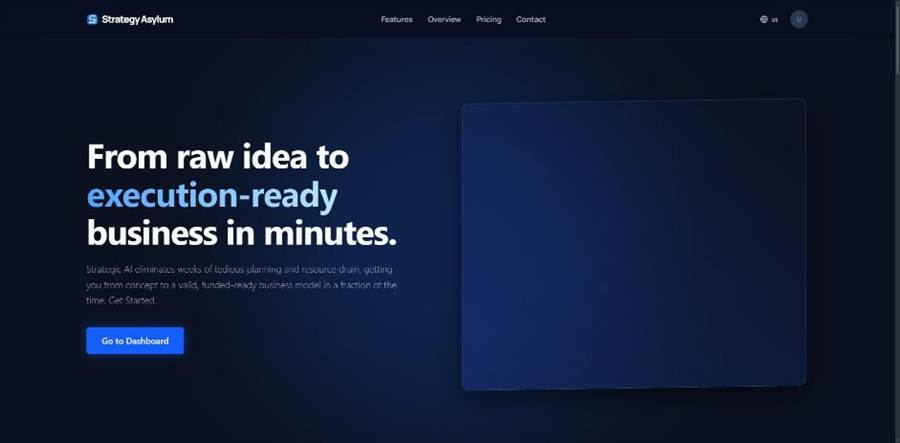
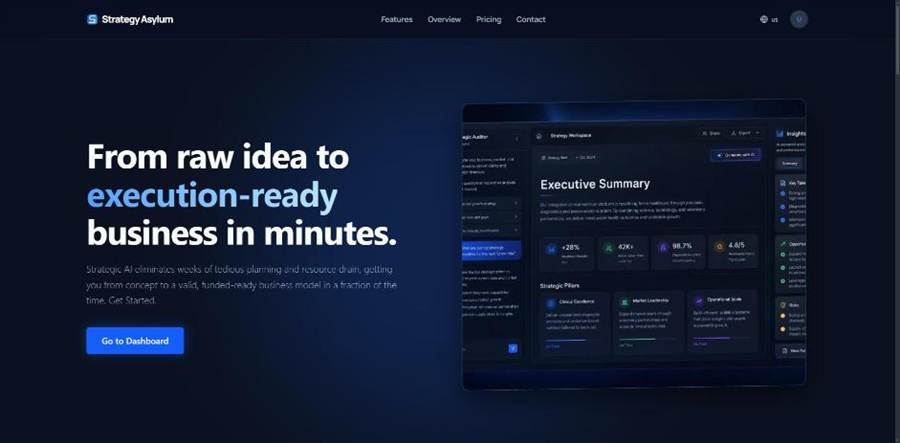
Retake Strategy Asylum screenshot with the interface preview loaded

Changed region(s): [[0.4978, 0.2348, 0.9022, 0.8804], [0.7467, 0.2641, 0.7778, 0.2935]]

diff --git a/index.html b/index.html
@@ -92,7 +92,7 @@
     <div class="project">
       <h3>Strategy Asylum</h3>
       <p>A Next.js and PostgreSQL web app: an AI co-pilot that guides business-strategy frameworks such as SWOT and PESTLE and generates strategy documents.</p>
-      <img src="img/strategy-asylum.jpg" alt="Strategy Asylum landing page" width="900" height="443" loading="lazy" style="width:100%;height:auto;border:1px solid var(--rule);border-radius:6px;margin:8px 0">
+      <img src="img/strategy-asylum.jpg" alt="Strategy Asylum landing page with an interface preview" width="900" height="443" loading="lazy" style="width:100%;height:auto;border:1px solid var(--rule);border-radius:6px;margin:8px 0">
       <p class="links"><a href="https://strategy.tasawom.com/">Live site</a></p>
     </div>
 
